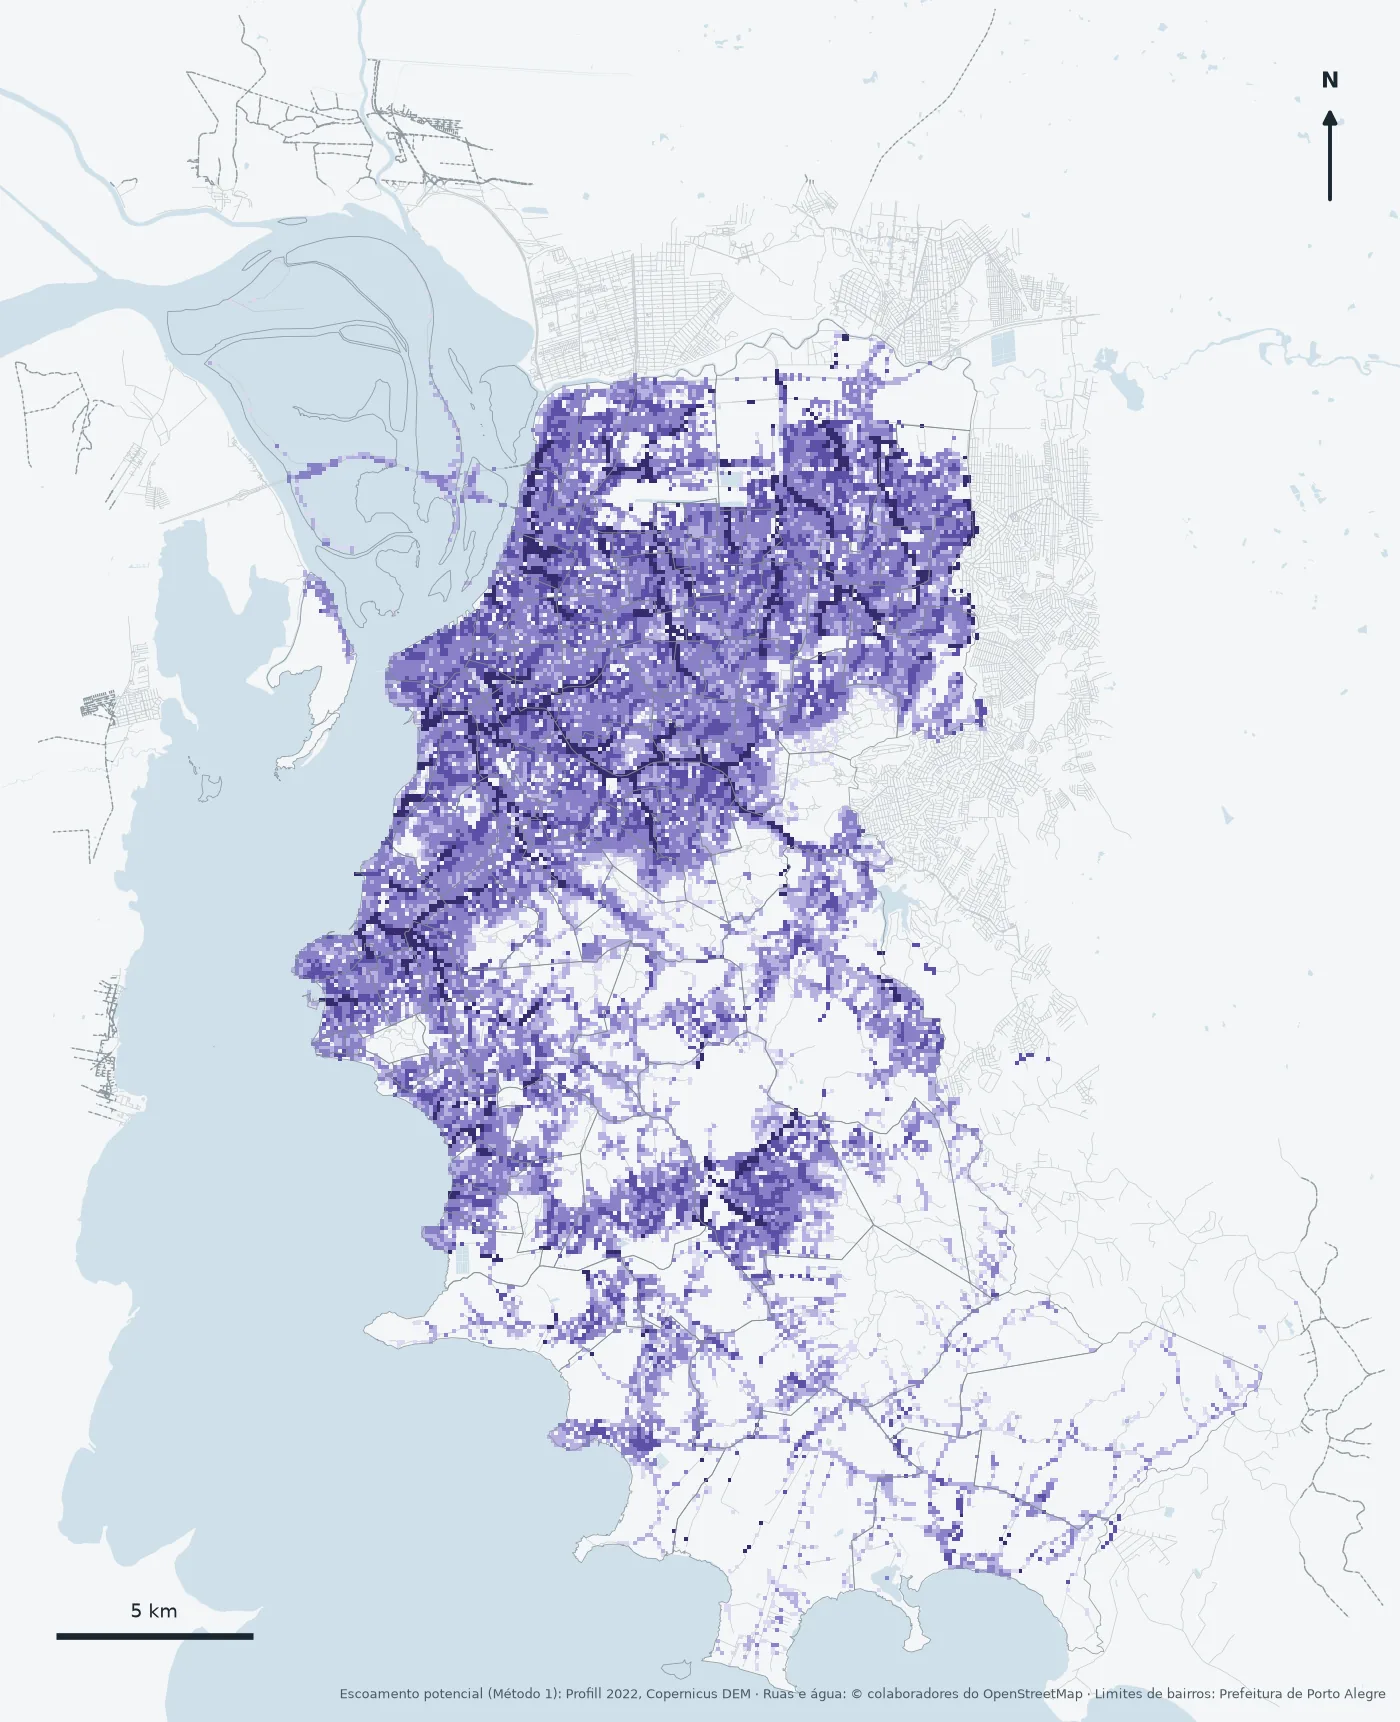
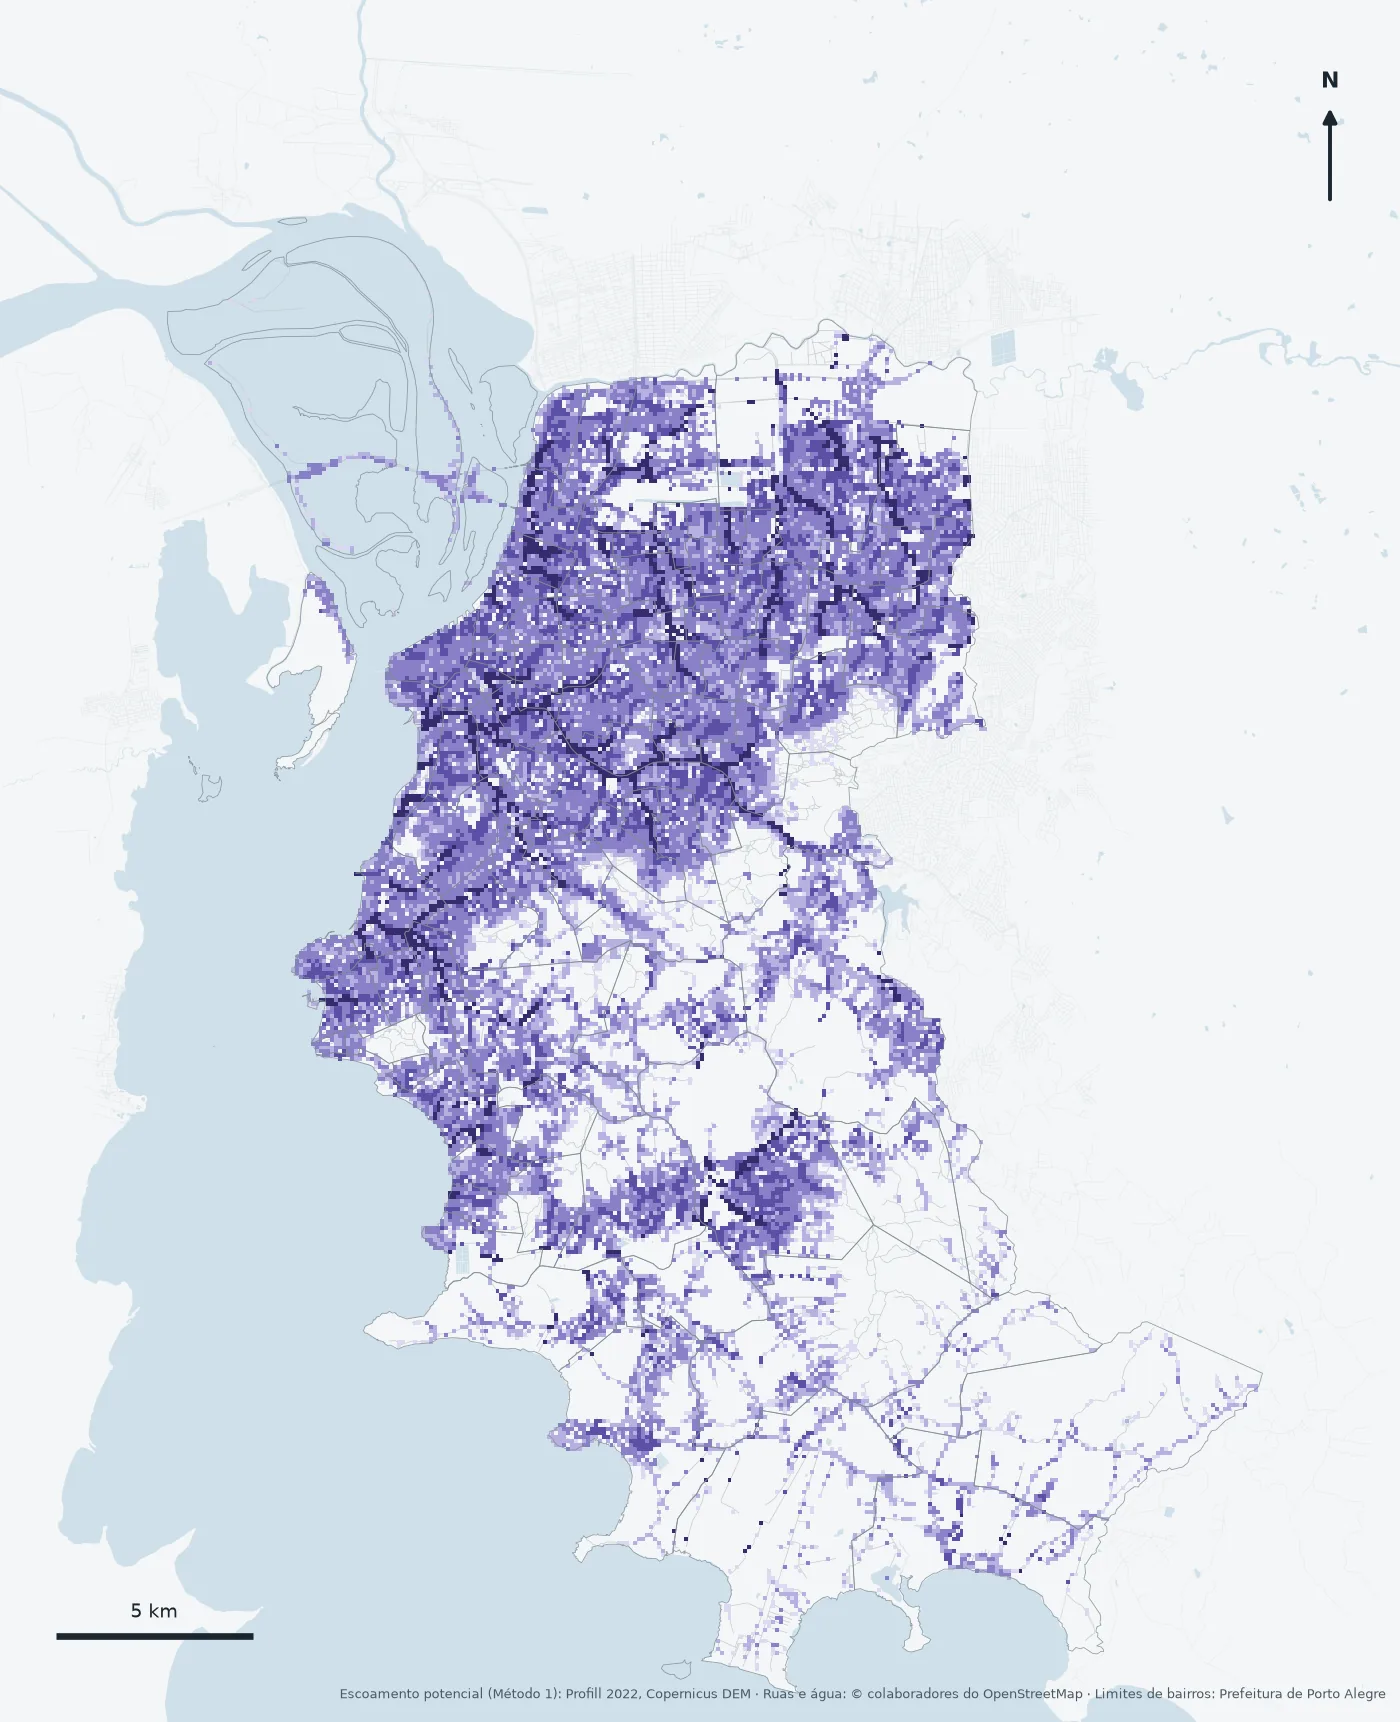
fix(mapa-manchas): refazer A, B e D só com as ruas de Porto Alegre e separar o zero da ausência de dado
Os três mapas e as estatísticas passam a valer para os 143.149 trechos dentro do município. Em A e B, o zero (Método 1 sem coeficiente fundamentado: 17.329 e 10.428 trechos) fica separado da ausência de dado (68 trechos) e é subdividido entre trechos com hipótese declarada do Método 2 e trechos sem classe com coeficiente nem hipótese. Em D, a parcela de trechos com rede cadastrada na célula é de 70,3% (e não 57,0%), e a presença de bocas de lobo cresce de 26% no quintil inferior de concentração para 73% no superior. As listas de bairros de A e B passam a mostrar a parcela construída ou pavimentada do bairro, e o critério de inclusão (mínimo de 200 trechos de rua com dados) é declarado e igual nas quatro dimensões.

diff --git a/tools/gerar_mapas_dimensoes.py b/tools/gerar_mapas_dimensoes.py
@@ -19,7 +19,7 @@ import numpy as np
 import pandas as pd
 
 sys.path.insert(0, str(Path(__file__).resolve().parent))
-from manchas_base import IMG_DIR, RAIZ, Quadro, carregar_agua, carregar_bairros, carregar_rede, desenhar  # noqa: E402
+from manchas_base import ESTATICO, IMG_DIR, RAIZ, Quadro, carregar_agua, carregar_bairros, carregar_rede, desenhar  # noqa: E402
 
 DADOS = RAIZ / "src/flooding_mapping/app/static/data/mapa_dimensoes_poa.json"
 RESULTADOS = RAIZ / "src/flooding_mapping/app/static/data/resultados_poa.json"
@@ -46,8 +46,11 @@ def rotulos(bordas: list[float]) -> list[str]:
 
 
 def base_30mm() -> pd.DataFrame:
-    n = pd.read_parquet(RAIZ / "data/processed/fase3/trechos_nivel2_cenarios.parquet")
-    n = n[(n.p_mm == P_MM) & (n.pacote == "metodo1")]
+    n2 = pd.read_parquet(RAIZ / "data/processed/fase3/trechos_nivel2_cenarios.parquet")
+    n2 = n2[n2.p_mm == P_MM]
+    n = n2[n2.pacote == "metodo1"]
+    m2 = n2[n2.pacote == "referencia_analoga"][["segmento_id", "v_gerado_local_max_m3", "contrib_potencial_max_m3"]].rename(columns={"v_gerado_local_max_m3": "m2_v", "contrib_potencial_max_m3": "m2_contrib"})
+    n = n.merge(m2, on="segmento_id", how="left")
     b = pd.read_parquet(RAIZ / "data/processed/fase3/trechos_contribuicao_base.parquet", columns=["segmento_id", "n_celulas_com_dados"])
     d = n.merge(b, on="segmento_id")
     sem = d["n_celulas_com_dados"] == 0                        # trecho sem nenhuma célula com dado de uso do solo: lacuna, não zero
@@ -56,18 +59,24 @@ def base_30mm() -> pd.DataFrame:
     return d
 
 
-def por_bairro(coluna: str, fator: float, n: int = 5) -> dict:
+MIN_TRECHOS = 200   # mínimo de trechos de rua com dados para um bairro entrar nas listas (resultados.py: MINIMO_DE_TRECHOS_POR_BAIRRO); vale para as quatro dimensões
+
+
+def por_bairro(coluna: str, fator: float, n: int = 5, com_construido: bool = False) -> dict:
     """Maiores valores entre os bairros com trechos suficientes, só dentro da própria dimensão (valores de dimensões diferentes não se comparam)."""
     b = json.loads(RESULTADOS.read_text(encoding="utf-8"))["bairros"]
     ok = [x for x in b if x["suficiente"]]
     ordem = sorted(ok, key=lambda x: (-x[coluna], x["nome"]))[:n]
-    return {"universo": f"{len(ok)} de {len(b)} bairros (os demais têm poucos trechos com dados e ficam sem estimativa)", "bairros_sem_estimativa": len(b) - len(ok),
-            "itens": [{"bairro": x["nome"], "valor": round(x[coluna] * fator, 1), "trechos_com_dados": x["trechos_com_dados"]} for x in ordem]}
+    return {"universo": f"{len(ok)} de {len(b)} bairros (os com menos de {MIN_TRECHOS} trechos de rua com dados ficam sem estimativa; o mesmo critério vale para as quatro dimensões)", "bairros_sem_estimativa": len(b) - len(ok),
+            "itens": [{"bairro": x["nome"], "valor": round(x[coluna] * fator, 1), "trechos_com_dados": x["trechos_com_dados"],
+                       **({"construido_pct": round(100 * x["fracao_impermeavel"], 1)} if com_construido else {})} for x in ordem]}
 
 
 def dimensao_a_ou_b(dim: str, q: Quadro, d: pd.DataFrame, agua, bairros) -> dict:
     cfg = CONFIG[dim]
-    col = "v_gerado_local_max_m3" if dim == "A" else "contrib_potencial_max_m3"
+    col, col2 = ("v_gerado_local_max_m3", "m2_v") if dim == "A" else ("contrib_potencial_max_m3", "m2_contrib")
+    na_malha = len(d)
+    d = d[d["segmento_id"].isin(set(q.ids[q.no_municipio()]))]            # só ruas dentro de Porto Alegre (docs/recorte_municipal.md)
     v = d[col]
     h = q.valores_por_trecho(d, col)
     w, hpx = desenhar(q, q.grade_maximo(h), cfg["bordas"], cfg["cores"], ~np.isfinite(h), agua, bairros, IMG_DIR / cfg["arquivo"], cfg["fonte"])
@@ -78,9 +87,10 @@ def dimensao_a_ou_b(dim: str, q: Quadro, d: pd.DataFrame, agua, bairros) -> dict
     r = {"nome": "Geração de escoamento" if dim == "A" else "Concentração do escoamento", "unidade": cfg["unidade"], "chuva_mm": P_MM, "pacote": "Método 1 (coeficientes fundamentados), limite superior do intervalo",
          "imagem": {"arquivo": f"img/estudo/{cfg['arquivo']}", "largura_px": w, "altura_px": hpx, "bytes": (IMG_DIR / cfg["arquivo"]).stat().st_size, "celula_m": 100, "agregacao": "máximo entre os trechos de cada célula"},
          "faixas": faixas, "trechos_total": int(len(v)), "trechos_com_dado": int(len(com)), "trechos_sem_dado": int(v.isna().sum()), "trechos_com_valor_positivo": int(len(pos)),
-         "trechos_com_valor_zero": int((com == 0).sum()), "mediana_m3": round(float(pos.median()), 1), "p90_m3": round(float(pos.quantile(0.9)), 1), "p99_m3": round(float(pos.quantile(0.99)), 1),
+         "trechos_com_valor_zero": int((com == 0).sum()), "trechos_na_malha": int(na_malha), "trechos_fora_do_municipio": int(na_malha - len(d)),
+         "zero_com_hipotese_metodo2": int(((v == 0) & (d[col2] > 0)).sum()), "zero_sem_classe_com_coeficiente_nem_hipotese": int(((v == 0) & ~(d[col2] > 0)).sum()), "mediana_m3": round(float(pos.median()), 1), "p90_m3": round(float(pos.quantile(0.9)), 1), "p99_m3": round(float(pos.quantile(0.99)), 1),
          "area_com_coeficiente_fundamentado_pct": round(100 * ind["A-imp-frac"]["valor"], 1), "fonte": cfg["fonte"],
-         "bairros": por_bairro("geracao_m1_max_aeq_por_ha", P_MM / 1000) if dim == "A" else por_bairro("contribuicao_m1_max_aeq_mediana", P_MM / 1000)}
+         "bairros": por_bairro("geracao_m1_max_aeq_por_ha", P_MM / 1000, com_construido=True) if dim == "A" else por_bairro("contribuicao_m1_max_aeq_mediana", P_MM / 1000, com_construido=True)}
     if dim == "A":
         r["bairros"]["metrica"] = "m³ por hectare em 30 mm (geração potencial por área classificada do bairro)"
         tot = json.loads(RESULTADOS.read_text(encoding="utf-8"))["dimensoes"]["A"]["dados"]["totais_m3"]["metodo1"]
@@ -113,13 +123,15 @@ def rede_por_celula(q: Quadro) -> np.ndarray:
 def dimensao_d(q: Quadro, agua, bairros) -> dict:
     cfg = CONFIG["D"]
     grade = rede_por_celula(q)
+    dentro = q.no_municipio()
     iy, ix = q.celula(q.xm, q.ym)
-    com_rede = grade[iy.clip(0, q.ny - 1), ix.clip(0, q.nx - 1)] > 0
+    com_rede = (grade[iy.clip(0, q.ny - 1), ix.clip(0, q.nx - 1)] > 0)[dentro]            # só trechos de rua dentro de Porto Alegre
     w, hpx = desenhar(q, grade, cfg["bordas"], cfg["cores"], None, agua, bairros, IMG_DIR / cfg["arquivo"], cfg["fonte"])
     cel = grade[grade > 0]
     res = json.loads(RESULTADOS.read_text(encoding="utf-8"))
     ind = {i["id"]: i["valor"] for i in res["indicadores"]}
-    rede, pontos, rel = ind["D-rede"], ind["D-pontos"], ind["D-relacao"]
+    rede, pontos = ind["D-rede"], ind["D-pontos"]
+    rec = json.loads((ESTATICO / "data/recorte_municipal_poa.json").read_text(encoding="utf-8"))["no_municipio"]["boca_de_lobo_ate_50m_por_quintil_de_contribuicao_pct"]
     q_nulos = json.loads((RAIZ / "data/processed/drenagem/qualidade_drenagem.json").read_text(encoding="utf-8"))["rede_pluvial"]["rede_pluvial"]["fracao_de_nulos_por_coluna"]
     pb = res["dimensoes"]["D"]["dados"]["por_bairro"]
     ok = {b["nome"] for b in res["bairros"] if b["suficiente"]}
@@ -131,10 +143,10 @@ def dimensao_d(q: Quadro, agua, bairros) -> dict:
                        for (a, b), r, c in zip(zip(cfg["bordas"][:-1], cfg["bordas"][1:]), [f"mais de 0 até 50 m", "50 a 100 m", "100 a 200 m", "200 a 300 m", "mais de 300 m"], cfg["cores"])],
             "rede_km": round(km), "rede_trechos": sum(v["trechos"] for v in rede.values()), "rede_sem_acesso_km": round(rede["rede_pluvial_sem_acesso"]["km"]), "pocos_de_visita": pontos["pocos"], "bocas_de_lobo": pontos["bocas"],
             "casas_de_bomba": pontos["casas_de_bomba"], "celulas_com_rede": int(len(cel)), "mediana_m_por_celula": round(float(np.median(cel))), "p90_m_por_celula": round(float(np.quantile(cel, 0.9))),
-            "trechos_de_rua_total": int(len(q.ids)), "trechos_de_rua_em_celula_com_rede": int(com_rede.sum()), "trechos_de_rua_em_celula_com_rede_pct": round(100 * float(com_rede.mean()), 1),
+            "trechos_de_rua_total": int(len(com_rede)), "trechos_de_rua_em_celula_com_rede": int(com_rede.sum()), "trechos_de_rua_em_celula_com_rede_pct": round(100 * float(com_rede.mean()), 1),
             "campos_sem_preenchimento_pct": {"material": round(100 * q_nulos["material"]), "declividade": round(100 * q_nulos["declividade"]), "classe_do_tubo": round(100 * q_nulos["classe_do_tubo"])},
-            "perto_de_boca_de_lobo_por_quintil_de_concentracao_pct": {"menor": round(100 * rel[0]["com_boca_de_lobo_ate_50m"]), "maior": round(100 * rel[-1]["com_boca_de_lobo_ate_50m"])},
-            "fonte": cfg["fonte"], "bairros": {"metrica": "km de rede pluvial cadastrada (parte urbana) por km² do bairro", "universo": f"{len(ok)} de {len(res['bairros'])} bairros (os demais têm poucos trechos com dados e ficam sem estimativa)",
+            "perto_de_boca_de_lobo_por_quintil_de_concentracao_pct": {"menor": round(rec[0]), "maior": round(rec[-1])},
+            "fonte": cfg["fonte"], "bairros": {"metrica": "km de rede pluvial cadastrada (parte urbana) por km² do bairro", "universo": f"{len(ok)} de {len(res['bairros'])} bairros (mesmo critério das outras dimensões: os com menos de {MIN_TRECHOS} trechos de rua com dados ficam de fora; a rede cadastrada destes dois não é avaliada aqui)",
                                                "bairros_sem_estimativa": len(res["bairros"]) - len(ok), "itens": [{"bairro": n, "valor": round(v["rede_km_por_km2"], 1), "bocas_por_km2": round(v["bocas_por_km2"])} for n, v in ordem]}}
 
 

diff --git a/tests/test_mapas_dimensoes.py b/tests/test_mapas_dimensoes.py
@@ -37,13 +37,15 @@ def test_the_four_maps_use_distinct_palettes_and_the_same_framing():
 @pytest.mark.parametrize("d", [x for x in "AB" if x in J])
 def test_a_and_b_state_the_unit_the_gaps_and_the_numbers_add_up(d):
     r = J[d]
-    assert r["trechos_total"] == 176836 and r["trechos_com_dado"] + r["trechos_sem_dado"] == r["trechos_total"] and r["trechos_sem_dado"] == 2919
+    assert r["trechos_total"] == 143149 and r["trechos_total"] + r["trechos_fora_do_municipio"] == r["trechos_na_malha"] == 176836 and r["trechos_com_dado"] + r["trechos_sem_dado"] == r["trechos_total"] and r["trechos_sem_dado"] == 68
+    assert r["zero_com_hipotese_metodo2"] + r["zero_sem_classe_com_coeficiente_nem_hipotese"] == r["trechos_com_valor_zero"]            # zero separado de ausência de dado (68) e subdividido
     assert r["trechos_com_valor_positivo"] + r["trechos_com_valor_zero"] == r["trechos_com_dado"]
     assert sum(f["trechos"] for f in r["faixas"]) == r["trechos_com_valor_positivo"]
     assert "m³" in r["unidade"] and r["chuva_mm"] == 30 and all("m³" in f["rotulo"] for f in r["faixas"])
     assert r["mediana_m3"] < r["p90_m3"] < r["p99_m3"] and r["area_com_coeficiente_fundamentado_pct"] == 17.3
+    assert all("construido_pct" in i for i in r["bairros"]["itens"])
     itens = r["bairros"]["itens"]
-    assert len(itens) == 5 and [i["valor"] for i in itens] == sorted((i["valor"] for i in itens), reverse=True) and r["bairros"]["bairros_sem_estimativa"] == 2
+    assert len(itens) == 5 and [i["valor"] for i in itens] == sorted((i["valor"] for i in itens), reverse=True) and r["bairros"]["bairros_sem_estimativa"] == 2 and "200 trechos" in r["bairros"]["universo"]
 
 
 def test_the_neighbourhood_figures_come_from_the_committed_results():
@@ -59,7 +61,10 @@ def test_the_neighbourhood_figures_come_from_the_committed_results():
 def test_a_and_b_are_recomputed_from_the_phase_3_results():
     sys.path.insert(0, str(RAIZ / "tools"))
     from gerar_mapas_dimensoes import base_30mm
+    from manchas_base import Quadro, carregar_rede
+    q = Quadro(carregar_rede())
     d = base_30mm()
+    d = d[d["segmento_id"].isin(set(q.ids[q.no_municipio()]))]
     for dim, col in (("A", "v_gerado_local_max_m3"), ("B", "contrib_potencial_max_m3")):
         v = d[col]
         assert (J[dim]["trechos_sem_dado"], J[dim]["trechos_com_valor_positivo"], J[dim]["trechos_com_valor_zero"]) == (int(v.isna().sum()), int((v > 0).sum()), int((v == 0).sum()))
@@ -78,10 +83,15 @@ def test_d_is_a_record_of_the_registry_with_its_gaps_stated():
     r = J["D"]
     assert "metros de rede" in r["unidade"] and "não funcionamento" in r["natureza"] and sum(f["celulas"] for f in r["faixas"]) == r["celulas_com_rede"]
     assert r["rede_trechos"] == 135779 and r["rede_km"] == 2961 and r["bocas_de_lobo"] == 44761 and r["pocos_de_visita"] == 88860
-    assert r["trechos_de_rua_em_celula_com_rede"] < r["trechos_de_rua_total"] == 176836 and r["trechos_de_rua_em_celula_com_rede_pct"] == 57.0     # ruas sem rede cadastrada: lacuna do cadastro, não prova de ausência
+    assert r["trechos_de_rua_em_celula_com_rede"] < r["trechos_de_rua_total"] == 143149 and r["trechos_de_rua_em_celula_com_rede_pct"] == 70.3     # ruas sem rede cadastrada: lacuna do cadastro, não prova de ausência
     assert r["campos_sem_preenchimento_pct"]["material"] > 90 and r["mediana_m_por_celula"] < r["p90_m_por_celula"]
-    assert r["perto_de_boca_de_lobo_por_quintil_de_concentracao_pct"] == {"menor": 2, "maior": 72}
+    assert r["perto_de_boca_de_lobo_por_quintil_de_concentracao_pct"] == {"menor": 26, "maior": 73}
     assert len(r["bairros"]["itens"]) == 5 and r["bairros"]["bairros_sem_estimativa"] == 2
+
+
+def test_d_gap_and_quintile_figures_come_from_the_municipal_cut():
+    rec = json.loads((ST / "data/recorte_municipal_poa.json").read_text(encoding="utf-8"))["no_municipio"]["boca_de_lobo_ate_50m_por_quintil_de_contribuicao_pct"]
+    assert J["D"]["perto_de_boca_de_lobo_por_quintil_de_concentracao_pct"] == {"menor": round(rec[0]), "maior": round(rec[-1])}
 
 
 def test_d_numbers_match_the_committed_results():
